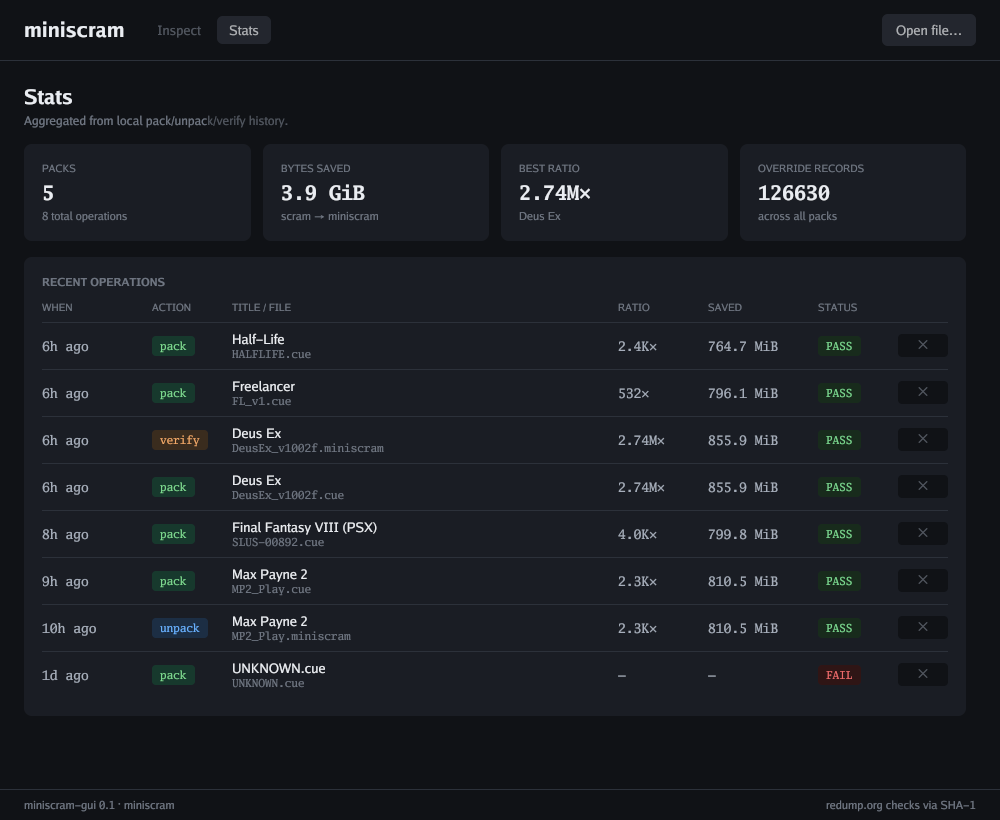
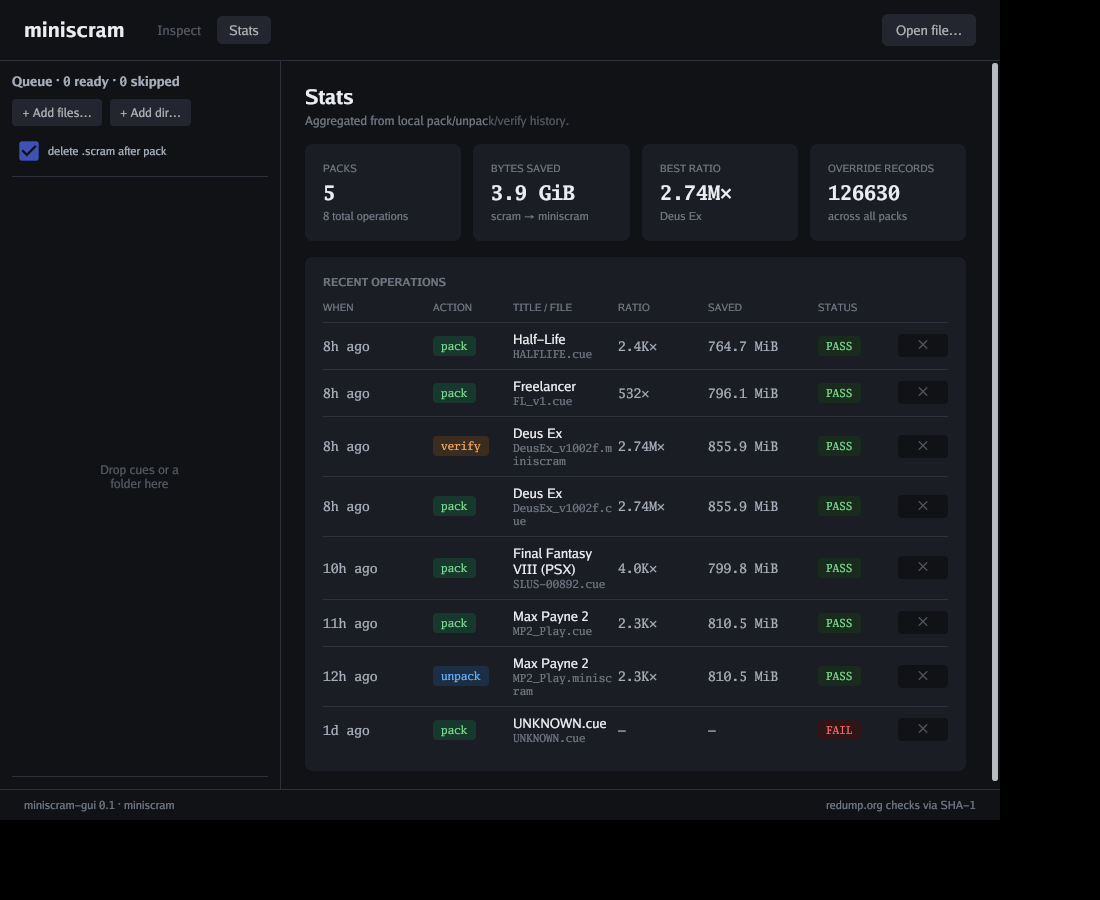
feat(gui): -mock-queue flag + refreshed README screenshots (#19)
Adds a -mock-queue flag mirroring -mock-running / -mock-toast: stages
a synthetic queue with one item in each visible state (done, running
mid-fill, two ready, two skipped) plus Stop queue button rendered.
Used to capture the new queue screenshot without needing a real run.

Refreshes all six README screenshots (01-05 needed updating because
the queue panel is now visible in every view) and adds 06-queue.png
showing the queue panel mid-flight.

diff --git a/tools/miniscram-gui/main.go b/tools/miniscram-gui/main.go
@@ -709,6 +709,7 @@ func main() {
 	doSeed := flag.Bool("seed", false, "seed events table with example data and exit")
 	mockRunning := flag.String("mock-running", "", "screenshot-only: inject a fake in-flight action ('pack'|'unpack'|'verify')")
 	mockToast := flag.String("mock-toast", "", "screenshot-only: inject a fake success toast ('pack'|'unpack'|'verify')")
+	mockQueue := flag.String("mock-queue", "", "screenshot-only: stage a queue with synthetic items in mixed states")
 	flag.Parse()
 
 	db, err := dbOpen()
@@ -777,6 +778,40 @@ func main() {
 			DurationMs: 5230,
 			ExpiresAt:  time.Now().Add(1 * time.Hour),
 		}
+	}
+	if *mockQueue != "" {
+		// Stage synthetic queue items spanning the visible states. Paths
+		// don't need to exist; classify() is bypassed and States are set
+		// directly. The worker is NOT started.
+		mockBasenames := []struct {
+			Name  string
+			State queueState
+			Frac  float64
+			Reason string
+			DurationMs int64
+		}{
+			{"freelancer.cue", qDone, 1.0, "", 5400},
+			{"deus-ex.cue", qRunning, 0.55, "", 0},
+			{"half-life.cue", qReady, 0, "", 0},
+			{"mp2-play.cue", qReady, 0, "", 0},
+			{"oddworld.cue", qSkipped, 0, "no sibling .scram", 0},
+			{"baldurs-gate.cue", qSkipped, 0, "already packed", 0},
+		}
+		mdl.queue.mu.Lock()
+		for _, m := range mockBasenames {
+			mdl.queue.items = append(mdl.queue.items, queueItem{
+				ID:         mdl.queue.nextID,
+				CuePath:    "/" + *mockQueue + "/" + m.Name,
+				Basename:   m.Name,
+				State:      m.State,
+				Fraction:   m.Frac,
+				Reason:     m.Reason,
+				DurationMs: m.DurationMs,
+			})
+			mdl.queue.nextID++
+		}
+		mdl.queue.workerRunning = true // so Stop button renders
+		mdl.queue.mu.Unlock()
 	}
 
 	go func() {

diff --git a/tools/miniscram-gui/README.md b/tools/miniscram-gui/README.md
@@ -54,6 +54,7 @@ the system X11/Wayland + GL + a C toolchain are sufficient.
 | `-seed`                  | Insert a small set of fixture events so Stats demos well.                       |
 | `-mock-running <action>` | Screenshot-only: inject a fake in-flight action (`pack`/`unpack`/`verify`).     |
 | `-mock-toast <action>`   | Screenshot-only: inject a fake success toast (`pack`/`unpack`/`verify`).        |
+| `-mock-queue <label>`    | Screenshot-only: stage a queue with synthetic items in mixed states.            |
 
 ## Screenshots
 
@@ -81,3 +82,10 @@ strip showing the current step + elapsed time:
 …and a 6 s success toast with a Reveal-in-folder button:
 
 ![toast](screenshots/05-toast.png)
+
+Drop a folder of cues — or a mix of individual cues — onto the
+window, and they pack sequentially in the queue panel. Per-row green
+progress fill, Stop queue, and per-row remove (`×`) / cancel-current
+(`⏹`) controls:
+
+![queue](screenshots/06-queue.png)
